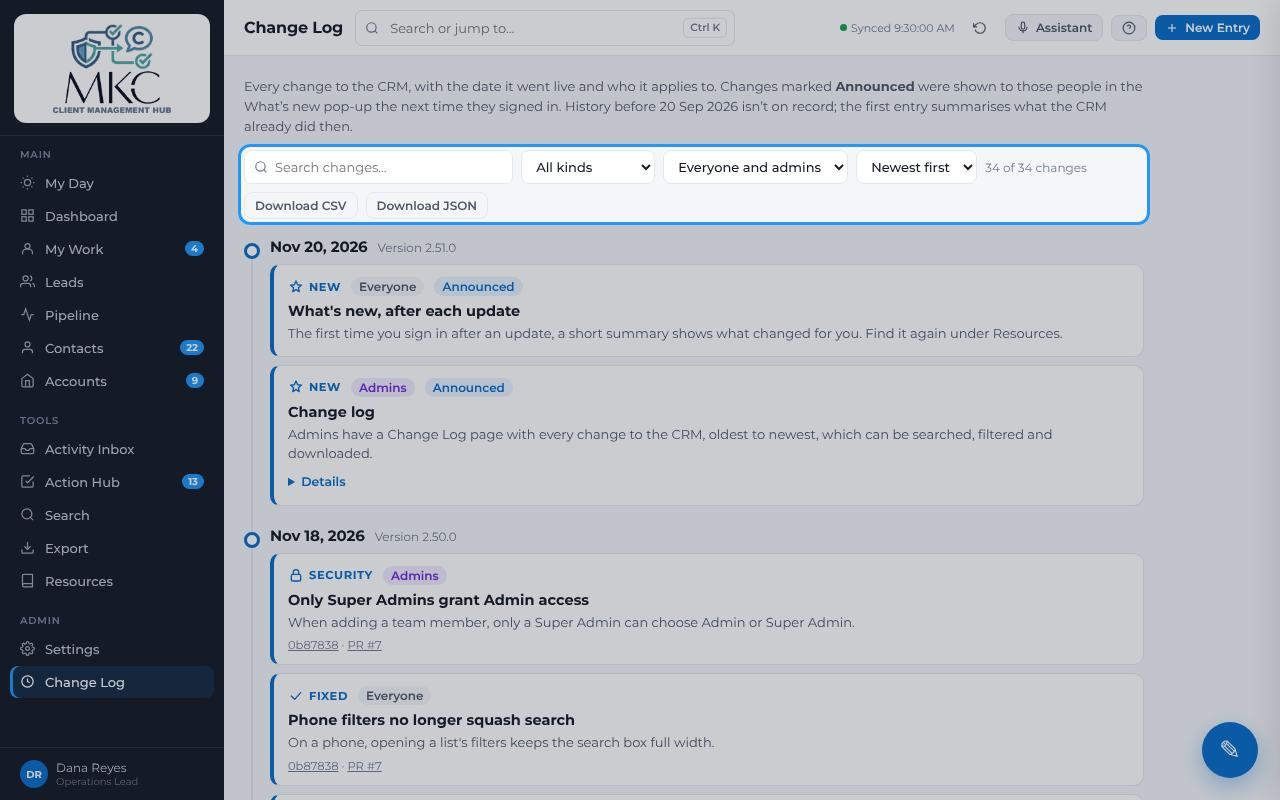
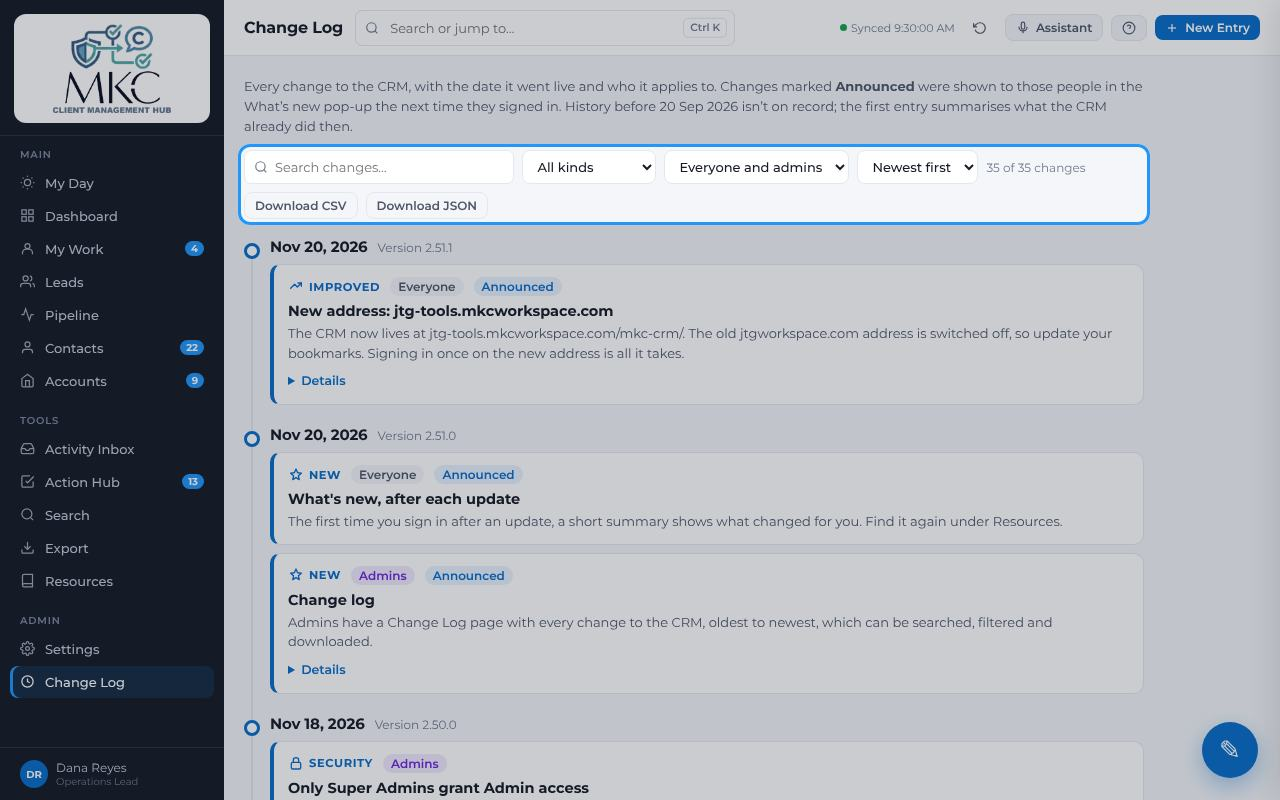
Move the tools site and Frontrow to mkcworkspace.com
- CNAME: jtg-tools.mkcworkspace.com (GitHub Pages serves one custom
  domain, so the old jtg-tools.jtgworkspace.com address stops).
- CRM: Add to Frontrow opens frontrow-manager.mkcworkspace.com;
  change-log entry 2.51.1 tells everyone the new address.
- Frontrow and Frontrow Manager: default addresses and setup notes now
  frontrow.mkcworkspace.com / frontrow-manager.mkcworkspace.com (the
  FRONTROW_URL and SITE_URL settings on Vercel still decide).
- ContentFlow guide: "Open ContentFlow" link to the new address.
- Email sender addresses stay on jtgworkspace.com (verified in Resend).

Merge only once the new DNS records resolve.

Claude-Session: https://claude.ai/code/session_01Ei849BDjFccLDDsGZrjqcV

diff --git a/content-strategy-workflow/guide.html b/content-strategy-workflow/guide.html
@@ -489,7 +489,7 @@ body[data-role="all"] #matrix { min-width: 560px; }
   <div class="masthead-inner gutter">
     <div class="mast-row">
       <span class="brand"><span class="brand-mark"><svg aria-hidden="true"><use href="#i-mark"/></svg></span>ContentFlow <small>Guide</small></span>
-      <a class="open-app" href="https://jtg-tools.jtgworkspace.com/content-strategy-workflow/" target="_blank" rel="noopener">Open ContentFlow &rarr;</a>
+      <a class="open-app" href="https://jtg-tools.mkcworkspace.com/content-strategy-workflow/" target="_blank" rel="noopener">Open ContentFlow &rarr;</a>
     </div>
     <h1 class="mast-title">From first idea to <em>published</em>, screen by screen.</h1>
     <p class="mast-sub">Every page, menu and setting in ContentFlow, shown the way it looks in the app. Pick your role and the guide hides what doesn't apply to you.</p>

diff --git a/frontrow-manager/lib/tokens.js b/frontrow-manager/lib/tokens.js
@@ -49,6 +49,6 @@ export async function issueAccountToken(contactId, purpose, { orgId = null, crea
  *  organization's custom domain: a custom domain is typed in by staff, and a
  *  wrong or hostile one must not be able to receive account tokens. */
 export function accountLink(org, kind, raw, env = process.env) {
-  const site = (env.FRONTROW_URL || 'https://frontrow.jtgworkspace.com').replace(/\/$/, '');
+  const site = (env.FRONTROW_URL || 'https://frontrow.mkcworkspace.com').replace(/\/$/, '');
   return `${org ? `${site}/${org.slug}` : `${site}/signin`}#${kind}=${raw}`;
 }

diff --git a/frontrow/lib/tokens.js b/frontrow/lib/tokens.js
@@ -49,6 +49,6 @@ export async function issueAccountToken(contactId, purpose, { orgId = null, crea
  *  organization's custom domain: a custom domain is typed in by staff, and a
  *  wrong or hostile one must not be able to receive account tokens. */
 export function accountLink(org, kind, raw, env = process.env) {
-  const site = (env.FRONTROW_URL || 'https://frontrow.jtgworkspace.com').replace(/\/$/, '');
+  const site = (env.FRONTROW_URL || 'https://frontrow.mkcworkspace.com').replace(/\/$/, '');
   return `${org ? `${site}/${org.slug}` : `${site}/signin`}#${kind}=${raw}`;
 }

diff --git a/frontrow-manager/api/auth-request.js b/frontrow-manager/api/auth-request.js
@@ -3,7 +3,7 @@ import { insert, json, clean, EMAIL_RE, rateLimited, clientIp, originAllowed, re
 import { hashToken, getAccessRole } from '../lib/auth.js';
 import { magicLinkEmail, sendEmail } from '../lib/emails.js';
 
-const SITE_URL = () => (process.env.SITE_URL || 'https://frontrow-manager.jtgworkspace.com').replace(/\/$/, '');
+const SITE_URL = () => (process.env.SITE_URL || 'https://frontrow-manager.mkcworkspace.com').replace(/\/$/, '');
 
 export default route(async (request) => {
   if (!originAllowed(request)) return json(403, { error: 'Not allowed.' });

diff --git a/mkc-crm/index.html b/mkc-crm/index.html
@@ -7105,7 +7105,7 @@ function openInClickUp(){if(S._clickupLink)window.open(S._clickupLink,'_blank');
 // Frontrow (client portal platform). The Manager imports this contact or
 // account from ClickUp, says whether they can sign in (they must be linked to
 // an Active account), and sends their setup link.
-const FRONTROW_MANAGER_URL='https://frontrow-manager.jtgworkspace.com';
+const FRONTROW_MANAGER_URL='https://frontrow-manager.mkcworkspace.com';
 function addToFrontrow(){
   const t=S.currentEntry&&S.currentEntry.task;
   if(!t||!t.id)return;

diff --git a/frontrow-manager/lib/directory.js b/frontrow-manager/lib/directory.js
@@ -106,6 +106,6 @@ export function pickOrgId(companies, preferredOrgId) {
 /** Base URL of the client app for an organization. */
 export function portalBase(org, env = process.env) {
   if (org && org.custom_domain) return `https://${org.custom_domain}`;
-  const site = (env.FRONTROW_URL || 'https://frontrow.jtgworkspace.com').replace(/\/$/, '');
+  const site = (env.FRONTROW_URL || 'https://frontrow.mkcworkspace.com').replace(/\/$/, '');
   return org ? `${site}/${org.slug}` : `${site}/signin`;
 }

diff --git a/frontrow/lib/directory.js b/frontrow/lib/directory.js
@@ -106,6 +106,6 @@ export function pickOrgId(companies, preferredOrgId) {
 /** Base URL of the client app for an organization. */
 export function portalBase(org, env = process.env) {
   if (org && org.custom_domain) return `https://${org.custom_domain}`;
-  const site = (env.FRONTROW_URL || 'https://frontrow.jtgworkspace.com').replace(/\/$/, '');
+  const site = (env.FRONTROW_URL || 'https://frontrow.mkcworkspace.com').replace(/\/$/, '');
   return org ? `${site}/${org.slug}` : `${site}/signin`;
 }

diff --git a/frontrow-manager/api/auth-me.js b/frontrow-manager/api/auth-me.js
@@ -38,6 +38,6 @@ export default route(async (request) => {
     role: session.role,
     can: CAN[session.role],
     gemini: { available: g.available, model: g.model, reason: g.reason },
-    frontrowUrl: (process.env.FRONTROW_URL || 'https://frontrow.jtgworkspace.com').replace(/\/$/, '')
+    frontrowUrl: (process.env.FRONTROW_URL || 'https://frontrow.mkcworkspace.com').replace(/\/$/, '')
   });
 });

diff --git a/frontrow-manager/lib/mail.js b/frontrow-manager/lib/mail.js
@@ -7,7 +7,7 @@ import { esc } from './core.js';
 const HEX = /^#[0-9a-f]{6}$/i;
 
 function site(env = process.env) {
-  return (env.FRONTROW_URL || 'https://frontrow.jtgworkspace.com').replace(/\/$/, '');
+  return (env.FRONTROW_URL || 'https://frontrow.mkcworkspace.com').replace(/\/$/, '');
 }
 
 function layout(org, inner, env) {

diff --git a/frontrow/lib/mail.js b/frontrow/lib/mail.js
@@ -7,7 +7,7 @@ import { esc } from './core.js';
 const HEX = /^#[0-9a-f]{6}$/i;
 
 function site(env = process.env) {
-  return (env.FRONTROW_URL || 'https://frontrow.jtgworkspace.com').replace(/\/$/, '');
+  return (env.FRONTROW_URL || 'https://frontrow.mkcworkspace.com').replace(/\/$/, '');
 }
 
 function layout(org, inner, env) {

diff --git a/frontrow-manager/SETUP.md b/frontrow-manager/SETUP.md
@@ -6,7 +6,7 @@ tasks and guides clients see in their organization's portal (the `frontrow/`
 app in this repo).
 
 - Vercel project: `jtg-tools-frontrow-manager`, **Root Directory `frontrow-manager`**
-- Suggested domain: `frontrow-manager.jtgworkspace.com`
+- Suggested domain: `frontrow-manager.mkcworkspace.com`
 - Database: Supabase project MKC-Admin (`symbmscaajjmgywbifhv`), schema `frontrow`
   (migration `sql/001_frontrow_foundation.sql`, already applied)
 
@@ -26,7 +26,7 @@ app in this repo).
   **Account Status is Active**. Switch an account off in ClickUp and its
   people lose access at the next sync (nightly, or **Sync from ClickUp**).
 - Each organization has its own branded sign-in page:
-  `https://frontrow.jtgworkspace.com/jtg`, `/mco`, `/uny`, `/mkc` — or its own
+  `https://frontrow.mkcworkspace.com/jtg`, `/mco`, `/uny`, `/mkc` — or its own
   domain (Organizations → Edit → Custom domain).
 
 ## Day to day
@@ -75,8 +75,8 @@ Enforced on the server (`lib/access.js`); the browser only hides buttons.
 | `SUPABASE_URL` | `https://symbmscaajjmgywbifhv.supabase.co` |
 | `SUPABASE_SERVICE_ROLE_KEY` | service role key (Supabase → Settings → API) |
 | `RESEND_API_KEY`, `FROM_EMAIL` | same as MKC Admin, e.g. `Frontrow <portal@jtgworkspace.com>` |
-| `SITE_URL` | this app's URL, e.g. `https://frontrow-manager.jtgworkspace.com` |
-| `FRONTROW_URL` | the client app's URL, e.g. `https://frontrow.jtgworkspace.com` |
+| `SITE_URL` | this app's URL, e.g. `https://frontrow-manager.mkcworkspace.com` |
+| `FRONTROW_URL` | the client app's URL, e.g. `https://frontrow.mkcworkspace.com` |
 | `PORTAL_ADMIN_EMAILS` | comma-separated emails that are always super admin |
 | `CLICKUP_API_TOKEN` | a **new** ClickUp personal token (see Security) |
 | `CRON_SECRET` | a long random string; Vercel sends it to the nightly sync |
@@ -110,7 +110,7 @@ if those change.
   (never sent to servers or logs), work once and expire. A new link retires
   the previous unused one. They always point at `FRONTROW_URL`, never a
   custom domain.
-- Session cookies use the `__Host-` prefix, so other `*.jtgworkspace.com`
+- Session cookies use the `__Host-` prefix, so other `*.mkcworkspace.com`
   sites can't set or overwrite them.
 - Everything is written to `core.audit_log` (tool `frontrow`), which is
   append-only.

diff --git a/frontrow/SETUP.md b/frontrow/SETUP.md
@@ -12,7 +12,7 @@ every organization:
 | an organization's own domain | that organization's portal at `/` |
 
 - Vercel project: `jtg-tools-frontrow`, **Root Directory `frontrow`**
-- Suggested domain: `frontrow.jtgworkspace.com`
+- Suggested domain: `frontrow.mkcworkspace.com`
 - Database: Supabase MKC-Admin (`symbmscaajjmgywbifhv`), schema `frontrow`
 
 ## Accounts
@@ -46,7 +46,7 @@ mistyped domain can never receive account links.
 | --- | --- |
 | `SUPABASE_URL`, `SUPABASE_SERVICE_ROLE_KEY` | same as Frontrow Manager |
 | `RESEND_API_KEY`, `FROM_EMAIL` | same as Frontrow Manager |
-| `FRONTROW_URL` | this app's URL, e.g. `https://frontrow.jtgworkspace.com` (links in emails) |
+| `FRONTROW_URL` | this app's URL, e.g. `https://frontrow.mkcworkspace.com` (links in emails) |
 | `CLICKUP_API_TOKEN` | same new token as Frontrow Manager (notes and request contacts) |
 | `ALLOWED_ORIGINS` | optional; only if a form is posted from another origin |
 
@@ -54,7 +54,7 @@ mistyped domain can never receive account links.
 
 1. Vercel project `jtg-tools-frontrow` → Settings → General → **Root
    Directory** `frontrow`; add the variables; redeploy.
-2. Add `frontrow.jtgworkspace.com` (Settings → Domains). **Until a domain is
+2. Add `frontrow.mkcworkspace.com` (Settings → Domains). **Until a domain is
    added, clients can't open the `*.vercel.app` URL** — Vercel's deployment
    protection asks them to log in to Vercel. Either add the domain or turn
    protection off for production.
